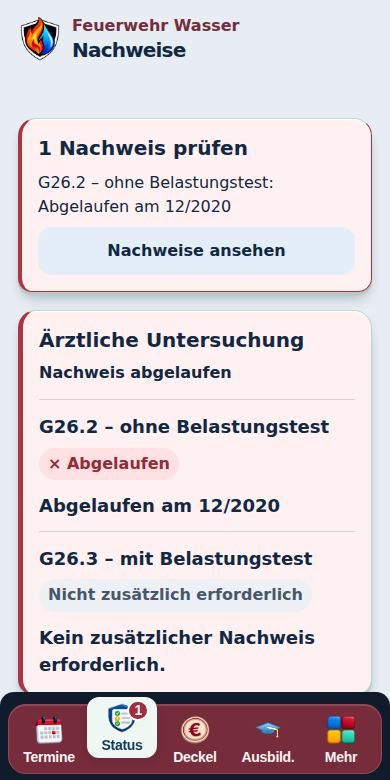
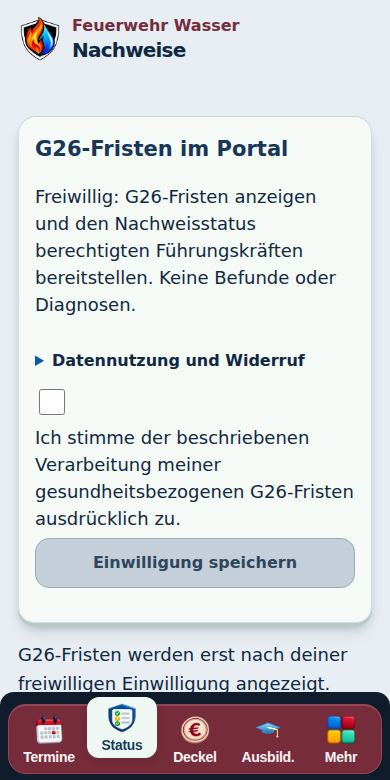
Show Heute and Morgen in widgets and clarify member-entered evidence

Changed region(s): [[0.0308, 0.1538, 0.9538, 0.9231], [0.9231, 0.8615, 0.9538, 0.8923]]

diff --git a/privacy.html b/privacy.html
@@ -1,7 +1,7 @@
 <!doctype html>
 <html lang="de"><head><meta charset="utf-8"><meta name="viewport" content="width=device-width,initial-scale=1"><meta name="referrer" content="no-referrer"><meta http-equiv="Content-Security-Policy" content="default-src 'none'; style-src 'self'; img-src 'self'; base-uri 'none'; form-action 'none'; object-src 'none'"><title>Datenschutz · H₂O Portal</title><link rel="stylesheet" href="css/install.css"></head><body><main><header><img src="assets/drinks/h2o-symbol-blue-192.png" width="64" height="64" alt=""><div><p>Feuerwehr Wasser</p><h1>Datenschutz · H₂O Portal</h1></div></header><p class="lead">Stand: 1. November 2026</p><section><h2>Verantwortlicher und Kontakt</h2><p>Markus Bürklin · Hirtenweg 1 · 79312 Emmendingen · Deutschland</p><p>E-Mail: m.b.1982@web.de</p><p>Das H₂O Portal wird eigenständig betrieben. Der Betreiber entscheidet über die Verarbeitung im Portal und verwendet dabei auch Informationen der Feuerwehrverwaltung. Seine persönliche Feuerwehrmitgliedschaft bestimmt nicht die datenschutzrechtliche Verantwortung.</p></section>
-<section><h2>Wofür welche Daten verwendet werden</h2><p>Das Portal bietet freigegebenen Personen Termine, Rückmeldungen, persönliche Nachweisfristen, ein Getränkekonto, Kontakte und Ausbildungsunterlagen. Es verarbeitet dafür Namen und Mitgliedszuordnungen, Zugangskennungen, Terminantworten, freigegebene Nachweisfristen, Getränke und Bestellungen sowie Zahlungen und offene Beträge. Die Angaben stammen aus der Verwaltung und aus eigenen Eingaben der Nutzer.</p><p>Die Bereitstellung und der Schutz dieser gewünschten Organisations- und Kontofunktionen erfolgen auf Grundlage berechtigter Interessen nach Artikel 6 Absatz 1 Buchstabe f DSGVO: persönliche Zuordnung, verlässliche Dienstorganisation, richtige Abrechnung und Schutz vor unberechtigten Zugriffen. Du kannst aus Gründen deiner besonderen Situation widersprechen. Medizinisch bezogene G26-Angaben unterliegen der gesonderten Einwilligung im nächsten Abschnitt.</p><p>Für den persönlichen Zugang sind Name und Zuordnung sowie eine Anmeldekennung nötig. Ohne sie ist kein zugeordnetes Portal-Konto möglich. Die Portal-Kontolöschung beendet keine Feuerwehrmitgliedschaft.</p></section>
-<section><h2>Freiwillige G26-Einwilligung</h2><p>Für die zusätzliche Nutzung von G26.2-/G26.3-Gültigkeits- und Fälligkeitsangaben im persönlichen Portal wird eine eigene, nicht vorausgewählte Einwilligung eingeholt. Diese Angaben haben Gesundheitsbezug. Grundlage sind Artikel 6 Absatz 1 Buchstabe a und Artikel 9 Absatz 2 Buchstabe a DSGVO.</p><p>Die Einwilligung umfasst die Fristenanzeige und Erinnerungsfunktion sowie die Anzeige der freigegebenen G26-Fristen und des daraus abgeleiteten Status an berechtigte Verwaltungs- und Führungskräfte im Portal. Die Angaben stammen aus der Verwaltung oder aus eigenen Aktualisierungen. Ärztliche Befunde, Diagnosen und Atteste werden in diesem Ablauf nicht übernommen.</p><p>Ohne Zustimmung bleiben Termine, Getränkekonto und andere Portalbereiche nutzbar. Unter Meine Nachweise → G26-Fristen im Portal kannst du die Einwilligung für die Zukunft widerrufen. Danach gibt der Server G26-Werte weder für dein persönliches Portal noch für die GF-Übersicht frei. Bis dahin rechtmäßig erfolgte Verarbeitungen werden durch den Widerruf nicht rückwirkend geändert.</p><p>Die Zustimmung wird mit Textversion und Zeitpunkt verschlüsselt gespeichert. Sie betrifft die zusätzliche Portalnutzung. Eigenständig geführte Verwaltungsunterlagen haben einen eigenen Verarbeitungszweck und werden durch diesen Widerruf nicht gelöscht. Die Einwilligung ist keine nachträgliche Bestätigung für frühere Datenübernahmen.</p></section>
+<section><h2>Wofür welche Daten verwendet werden</h2><p>Das Portal bietet freigegebenen Personen Termine, Rückmeldungen, persönliche Nachweisfristen, ein Getränkekonto, Kontakte und Ausbildungsunterlagen. Es verarbeitet dafür Namen und Mitgliedszuordnungen, Zugangskennungen, Terminantworten, freigegebene Nachweisfristen, Getränke und Bestellungen sowie Zahlungen und offene Beträge. Mitglieder tragen ihre Nachweisfristen und Kontrolldaten selbst ein. Die Verwaltung prüft die Angaben und kann sie bestätigen oder korrigieren. Bereits vorhandene Verwaltungsangaben können zum Abgleich oder zur Ergänzung übernommen werden.</p><p>Die Bereitstellung und der Schutz dieser gewünschten Organisations- und Kontofunktionen erfolgen auf Grundlage berechtigter Interessen nach Artikel 6 Absatz 1 Buchstabe f DSGVO: persönliche Zuordnung, verlässliche Dienstorganisation, richtige Abrechnung und Schutz vor unberechtigten Zugriffen. Du kannst aus Gründen deiner besonderen Situation widersprechen. Medizinisch bezogene G26-Angaben unterliegen der gesonderten Einwilligung im nächsten Abschnitt.</p><p>Für den persönlichen Zugang sind Name und Zuordnung sowie eine Anmeldekennung nötig. Ohne sie ist kein zugeordnetes Portal-Konto möglich. Die Portal-Kontolöschung beendet keine Feuerwehrmitgliedschaft.</p></section>
+<section><h2>Freiwillige G26-Einwilligung</h2><p>Für die zusätzliche Nutzung von G26.2-/G26.3-Gültigkeits- und Fälligkeitsangaben im persönlichen Portal wird eine eigene, nicht vorausgewählte Einwilligung eingeholt. Diese Angaben haben Gesundheitsbezug. Grundlage sind Artikel 6 Absatz 1 Buchstabe a und Artikel 9 Absatz 2 Buchstabe a DSGVO.</p><p>Die Einwilligung umfasst die Fristenanzeige und Erinnerungsfunktion sowie die Anzeige der freigegebenen G26-Fristen und des daraus abgeleiteten Status an berechtigte Verwaltungs- und Führungskräfte im Portal. Du trägst die Angaben selbst ein; die Verwaltung prüft sie. Vorhandene Verwaltungsangaben können abgeglichen oder ergänzt werden. Ärztliche Befunde, Diagnosen und Atteste werden in diesem Ablauf nicht übernommen.</p><p>Ohne Zustimmung bleiben Termine, Getränkekonto und andere Portalbereiche nutzbar. Unter Meine Nachweise → G26-Fristen im Portal kannst du die Einwilligung für die Zukunft widerrufen. Danach gibt der Server G26-Werte weder für dein persönliches Portal noch für die GF-Übersicht frei. Bis dahin rechtmäßig erfolgte Verarbeitungen werden durch den Widerruf nicht rückwirkend geändert.</p><p>Die Zustimmung wird mit Textversion und Zeitpunkt verschlüsselt gespeichert. Sie betrifft die zusätzliche Portalnutzung. Eigenständig geführte Verwaltungsunterlagen haben einen eigenen Verarbeitungszweck und werden durch diesen Widerruf nicht gelöscht. Die Einwilligung ist keine nachträgliche Bestätigung für frühere Datenübernahmen.</p></section>
 <section><h2>Anmeldung und lokale Speicherung</h2><p>Bei Passkeys erhält der Portaldienst öffentliche Schlüssel und Kennungen. Private Passkey-Schlüssel und biometrische Merkmale verbleiben beim Authentifikator. Ein eingerichtetes Passwort wird serverseitig als Prüfwert gespeichert. Neue persönliche Einrichtungsfreigaben sind einmalig und 30 Minuten gültig.</p><p>Sitzungen und Einstellungen werden auf deinem Gerät gespeichert. Das native iPhone-Widget enthält nur den nächsten freigegebenen Termin mit Zeit, Ort, Kleidung und Rückmeldestatus, höchstens zwölf Stunden. Namen und Zugangstoken werden nicht an das Widget übergeben. Bei Abmeldung oder erkanntem Zugriffsverlust wird der Widget-Stand geleert.</p><p>Die Apple-Prüfdemo arbeitet mit erfundenen Daten in einem getrennten, nicht dauerhaften WebKit-Speicher. Ihre Änderungen betreffen keine echten Mitgliederdaten. Öffentliche Ausbildungsdateien können aus dem bestehenden Webangebot geladen werden.</p></section>
 <section><h2>Dienste und Empfänger</h2><p>GitHub Pages liefert die öffentlichen Programmdateien. Cloudflare betreibt den geschützten Portaldienst und die Datenbank. Microsoft OneDrive/SharePoint dient der getrennten Verwaltung gemeinsamer Dateien und Berichte. Google liefert die eingerichteten Kalendertermine. Berechtigte Verwaltungs- und Führungskräfte erhalten nur die für ihre Funktionen freigegebenen Informationen.</p><p>Push-Mitteilungen sind freiwillig. Dafür werden eine Gerätekennung und der Freigabestatus verarbeitet; auf dem Sperrbildschirm steht ein allgemeiner Hinweis. Ein Kalenderabo verwendet einen persönlichen, zurücksetzbaren Nur-Lese-Link. Beim Kalenderabruf werden die für dich freigegebenen Termine an deinen Kalenderdienst übertragen. Kalender und Mitteilungen lassen sich unter Konto &amp; Sicherheit verwalten.</p><p>PayPal wird erst beim Öffnen des Zahlungslinks aufgerufen. OpenLigaDB liefert Daten bei Nutzung des Fußballbereichs. Beim Öffnen externer Unterlagen erhält der jeweilige Anbieter die für den Abruf nötigen Verbindungsdaten. Technische Verbindungsdaten können auch bei den Hostinganbietern anfallen.</p><p>Die App enthält keine eigenen Werbe- oder Analyse-SDKs. Eine Nutzung zum Werbetracking ist nicht eingerichtet. Die genutzten internationalen Dienste können Daten außerhalb der EU bzw. des EWR verarbeiten, insbesondere in den USA; eine ausschließlich deutsche Speicherung wird nicht zugesagt. Angaben der Anbieter zu Datenstandorten, Angemessenheitsbeschlüssen und vertraglichen Schutzmechanismen stehen unter den folgenden Links.</p><ul><li><a href="https://docs.github.com/en/site-policy/privacy-policies/github-general-privacy-statement" rel="noopener noreferrer">GitHub – Datenschutz</a></li><li><a href="https://www.cloudflare.com/privacypolicy/" rel="noopener noreferrer">Cloudflare – Datenschutz</a></li><li><a href="https://www.cloudflare.com/cloudflare-customer-dpa/" rel="noopener noreferrer">Cloudflare – Datenverarbeitungsbedingungen und Standardvertragsklauseln</a></li><li><a href="https://privacy.microsoft.com/de-de/privacystatement" rel="noopener noreferrer">Microsoft – Datenschutz</a></li><li><a href="https://policies.google.com/privacy?hl=de" rel="noopener noreferrer">Google – Datenschutz</a></li><li><a href="https://www.apple.com/legal/privacy/de-ww/" rel="noopener noreferrer">Apple – Datenschutz</a></li><li><a href="https://www.paypal.com/de/legalhub/paypal/privacy-full" rel="noopener noreferrer">PayPal – Datenschutz</a></li><li><a href="https://www.openligadb.de/" rel="noopener noreferrer">OpenLigaDB</a></li></ul></section>
 <section><h2>Aufbewahrung und Kontolöschung</h2><p>Unter Konto &amp; Sicherheit → Konto → Portal-Konto löschen entfernst du nach erneuter Anmeldung deine Portalzugänge, Sitzungen, Push-Verbindungen, Kalenderabo-Links, Portal-Rückmeldungen und die hinterlegte Portal-Einwilligung. Alte Zugänge werden ungültig. Für einen späteren Zugang ist eine neue Freigabe erforderlich.</p><p>Unabhängig verwaltete Feuerwehrunterlagen und Nachweise bleiben während der Mitgliedschaft erhalten. Bei deren Beendigung veranlasst die Verwaltung die Löschung. Das getrennt geführte Getränkekonto und Bestellungen werden durch die Portal-Kontolöschung nicht entfernt; offene Abrechnungen und sonstige Löschwünsche klärt der Betreiber mit der Verwaltung. Es wird keine pauschale gesetzliche Aufbewahrungsfrist für sämtliche Daten behauptet.</p><p>Portal-Sitzungen und persönliche Links bestehen bis zu ihrem Ablauf, ihrer Sperrung oder Löschung. Für Terminantworten sieht der Dienst eine Bereinigung nach 400 Tagen vor. Der persönliche Kalender-Abrufstatus enthält nur den letzten erfolgreichen Abruf und keinen Nutzungsverlauf. Kopien in Kalender-Apps und Passkeys im Passwortmanager können dort selbst entfernt werden.</p></section>

diff --git a/cloudflare/push/worker.bundle.js b/cloudflare/push/worker.bundle.js
@@ -21598,7 +21598,7 @@ g.RegulationsModel={source,defaults,validate,pdfUrl,bundledPdf,bundledParts};
 })(globalThis);
 
 /* Versioned, specific consent wording shared by the member UI and the service. */
-(function(g){'use strict';const model={version:'g26-portal-2026-11-01-v1',title:'G26-Fristen im Portal',controller:'Markus Bürklin, Hirtenweg 1, 79312 Emmendingen · m.b.1982@web.de',text:'Ich willige ausdrücklich ein, dass Markus Bürklin meine G26.2-/G26.3-Gültigkeits- und Fälligkeitsangaben aus der Feuerwehrverwaltung sowie meine eigenen Aktualisierungen für die Fristenanzeige und Erinnerungen im H₂O Portal verarbeitet. Diese Angaben haben Gesundheitsbezug. Berechtigte Verwaltungs- und Führungskräfte können die freigegebenen G26-Fristen und den daraus abgeleiteten Nachweisstatus im Portal sehen. Der geschützte Portaldienst und seine Datenbank werden bei Cloudflare betrieben. Ärztliche Befunde, Diagnosen und Atteste werden hierfür nicht übernommen.',notice:'Die Einwilligung ist freiwillig. Ohne Zustimmung bleiben Termine, Getränkekonto und die übrigen Portalbereiche nutzbar. Du kannst sie hier jederzeit für die Zukunft widerrufen. Dann werden G26-Angaben im persönlichen Portal und in der GF-Übersicht nicht mehr freigegeben. Unabhängig geführte Verwaltungsunterlagen werden dadurch nicht gelöscht.',label:'Ich stimme der beschriebenen Verarbeitung meiner gesundheitsbezogenen G26-Fristen ausdrücklich zu.'};g.G26Consent=Object.freeze(model);if(typeof module!=='undefined'&&module.exports)module.exports=model;})(globalThis);
+(function(g){'use strict';const model={version:'g26-portal-2026-11-01-v1',title:'G26-Fristen im Portal',controller:'Markus Bürklin, Hirtenweg 1, 79312 Emmendingen · m.b.1982@web.de',text:'Ich willige ausdrücklich ein, dass Markus Bürklin meine selbst eingetragenen G26.2-/G26.3-Gültigkeits- und Fälligkeitsangaben sowie mit der Verwaltung abgeglichene Angaben für die Fristenanzeige und Erinnerungen im H₂O Portal verarbeitet. Die Verwaltung prüft die Angaben und kann sie bestätigen oder korrigieren. Diese Angaben haben Gesundheitsbezug. Berechtigte Verwaltungs- und Führungskräfte können die freigegebenen G26-Fristen und den daraus abgeleiteten Nachweisstatus im Portal sehen. Der geschützte Portaldienst und seine Datenbank werden bei Cloudflare betrieben. Ärztliche Befunde, Diagnosen und Atteste werden hierfür nicht übernommen.',notice:'Die Einwilligung ist freiwillig. Ohne Zustimmung bleiben Termine, Getränkekonto und die übrigen Portalbereiche nutzbar. Du kannst sie hier jederzeit für die Zukunft widerrufen. Dann werden G26-Angaben im persönlichen Portal und in der GF-Übersicht nicht mehr freigegeben. Unabhängig geführte Verwaltungsunterlagen werden dadurch nicht gelöscht.',label:'Ich stimme der beschriebenen Verarbeitung meiner gesundheitsbezogenen G26-Fristen ausdrücklich zu.'};g.G26Consent=Object.freeze(model);if(typeof module!=='undefined'&&module.exports)module.exports=model;})(globalThis);
 
 /* Member evidence overlay and encrypted audit trail. Server-owned eligibility and dates. */
 (function(g){
@@ -22877,7 +22877,7 @@ export default {
   const path=new URL(request.url).pathname;
   try{
    if(!env.DB||!env.ADMIN_TOKEN||env.ADMIN_TOKEN.length<40||!env.INVITE_SECRET||env.INVITE_SECRET.length<40||!env.VAPID_PRIVATE_JWK||!env.VAPID_PUBLIC_KEY)return reply({error:'Versanddienst noch nicht eingerichtet.'},503);
[2 lines of base64/hex data omitted]
    const personalFeed=/^\/calendar\/member\/([A-Za-z0-9_-]{43})\.ics$/.exec(path);
    if(personalFeed&&['GET','HEAD'].includes(request.method)){
     const privateHeaders={'Content-Type':'text/calendar; charset=utf-8','Content-Disposition':'inline; filename="H2O-Meine-Feuerwehrtermine.ics"','Cache-Control':'private, no-store','X-Content-Type-Options':'nosniff','Referrer-Policy':'no-referrer','X-Robots-Tag':'noindex, nofollow, noarchive'};

diff --git a/js/features/portal/g26-consent.js b/js/features/portal/g26-consent.js
@@ -1,2 +1,2 @@
 /* Versioned, specific consent wording shared by the member UI and the service. */
-(function(g){'use strict';const model={version:'g26-portal-2026-11-01-v1',title:'G26-Fristen im Portal',controller:'Markus Bürklin, Hirtenweg 1, 79312 Emmendingen · m.b.1982@web.de',text:'Ich willige ausdrücklich ein, dass Markus Bürklin meine G26.2-/G26.3-Gültigkeits- und Fälligkeitsangaben aus der Feuerwehrverwaltung sowie meine eigenen Aktualisierungen für die Fristenanzeige und Erinnerungen im H₂O Portal verarbeitet. Diese Angaben haben Gesundheitsbezug. Berechtigte Verwaltungs- und Führungskräfte können die freigegebenen G26-Fristen und den daraus abgeleiteten Nachweisstatus im Portal sehen. Der geschützte Portaldienst und seine Datenbank werden bei Cloudflare betrieben. Ärztliche Befunde, Diagnosen und Atteste werden hierfür nicht übernommen.',notice:'Die Einwilligung ist freiwillig. Ohne Zustimmung bleiben Termine, Getränkekonto und die übrigen Portalbereiche nutzbar. Du kannst sie hier jederzeit für die Zukunft widerrufen. Dann werden G26-Angaben im persönlichen Portal und in der GF-Übersicht nicht mehr freigegeben. Unabhängig geführte Verwaltungsunterlagen werden dadurch nicht gelöscht.',label:'Ich stimme der beschriebenen Verarbeitung meiner gesundheitsbezogenen G26-Fristen ausdrücklich zu.'};g.G26Consent=Object.freeze(model);if(typeof module!=='undefined'&&module.exports)module.exports=model;})(globalThis);
+(function(g){'use strict';const model={version:'g26-portal-2026-11-01-v1',title:'G26-Fristen im Portal',controller:'Markus Bürklin, Hirtenweg 1, 79312 Emmendingen · m.b.1982@web.de',text:'Ich willige ausdrücklich ein, dass Markus Bürklin meine selbst eingetragenen G26.2-/G26.3-Gültigkeits- und Fälligkeitsangaben sowie mit der Verwaltung abgeglichene Angaben für die Fristenanzeige und Erinnerungen im H₂O Portal verarbeitet. Die Verwaltung prüft die Angaben und kann sie bestätigen oder korrigieren. Diese Angaben haben Gesundheitsbezug. Berechtigte Verwaltungs- und Führungskräfte können die freigegebenen G26-Fristen und den daraus abgeleiteten Nachweisstatus im Portal sehen. Der geschützte Portaldienst und seine Datenbank werden bei Cloudflare betrieben. Ärztliche Befunde, Diagnosen und Atteste werden hierfür nicht übernommen.',notice:'Die Einwilligung ist freiwillig. Ohne Zustimmung bleiben Termine, Getränkekonto und die übrigen Portalbereiche nutzbar. Du kannst sie hier jederzeit für die Zukunft widerrufen. Dann werden G26-Angaben im persönlichen Portal und in der GF-Übersicht nicht mehr freigegeben. Unabhängig geführte Verwaltungsunterlagen werden dadurch nicht gelöscht.',label:'Ich stimme der beschriebenen Verarbeitung meiner gesundheitsbezogenen G26-Fristen ausdrücklich zu.'};g.G26Consent=Object.freeze(model);if(typeof module!=='undefined'&&module.exports)module.exports=model;})(globalThis);

diff --git a/native/ios/Shared/WidgetSnapshot.swift b/native/ios/Shared/WidgetSnapshot.swift
@@ -1,5 +1,23 @@
 import Foundation
 
+enum H2OWidgetDateLabel {
+    static var calendar: Calendar {
+        var calendar = Calendar(identifier: .gregorian)
+        calendar.timeZone = TimeZone(identifier: "Europe/Berlin")!
+        return calendar
+    }
+
+    static func relativeDay(for date: Date, comparedTo reference: Date) -> String? {
+        let calendar = calendar
+        let days = calendar.dateComponents([.day], from: calendar.startOfDay(for: reference), to: calendar.startOfDay(for: date)).day
+        switch days {
+        case 0: return "Heute"
+        case 1: return "Morgen"
+        default: return nil
+        }
+    }
+}
+
 // Shared between the signed-in iOS app and its WidgetKit extension.
 // Never store capability tokens, passkeys, member IDs, or calendar URLs here.
 enum H2OWidgetStorage {
@@ -17,12 +35,19 @@ enum H2OWidgetStorage {
         let active = snapshot.event.map { $0.end > now } ?? false
         let current = active ? snapshot : H2OWidgetSnapshot(updatedAt: snapshot.updatedAt, event: nil, stale: snapshot.stale)
         var states = [H2OWidgetState(date: now, snapshot: current)]
+        // Relative day labels change at local midnight, even without reopening the app.
+        let calendar = H2OWidgetDateLabel.calendar
+        if let event = snapshot.event, active,
+           let midnight = calendar.date(byAdding: .day, value: 1, to: calendar.startOfDay(for: now)),
+           midnight < expiry, midnight < event.end {
+            states.append(H2OWidgetState(date: midnight, snapshot: current))
+        }
         if let event = snapshot.event, active, event.end < expiry {
             states.append(H2OWidgetState(date: event.end, snapshot: H2OWidgetSnapshot(updatedAt: snapshot.updatedAt, event: nil, stale: snapshot.stale)))
         }
         // Empty calendars must expire too: an old empty result is not a fresh check.
         states.append(H2OWidgetState(date: expiry, snapshot: nil))
-        return states
+        return states.sorted { $0.date < $1.date }
     }
 
     static func read(now: Date = Date()) -> H2OWidgetSnapshot? {

diff --git a/native/widget-tests/WidgetPolicyTests.swift b/native/widget-tests/WidgetPolicyTests.swift
@@ -2,6 +2,33 @@ import XCTest
 @testable import WidgetPolicy
 
 final class WidgetPolicyTests: XCTestCase {
+    func date(_ value: String) -> Date { ISO8601DateFormatter().date(from: value)! }
+
+    func testRelativeDaysUseBerlinCalendarIncludingClockChanges() {
+        for (reference, tomorrow) in [
+            ("2026-03-28T23:30:00Z", "2026-03-29T22:30:00Z"),
+            ("2026-10-24T22:30:00Z", "2026-10-25T23:30:00Z")
+        ] {
+            XCTAssertEqual(H2OWidgetDateLabel.relativeDay(for: date(reference), comparedTo: date(reference)), "Heute")
+            XCTAssertEqual(H2OWidgetDateLabel.relativeDay(for: date(tomorrow), comparedTo: date(reference)), "Morgen")
+            XCTAssertNil(H2OWidgetDateLabel.relativeDay(for: date(reference), comparedTo: date(tomorrow)))
+        }
+        XCTAssertNil(H2OWidgetDateLabel.relativeDay(for: date("2026-11-03T18:00:00Z"), comparedTo: date("2026-11-01T12:00:00Z")))
+    }
+
+    func testMidnightRefreshChangesTomorrowToTodayWithoutExtendingCache() {
+        let now = date("2026-11-01T21:00:00Z")
+        let start = date("2026-11-02T06:00:00Z")
+        let event = H2OWidgetEvent(title: "Probe", start: start, end: start.addingTimeInterval(3600), location: "Test", clothing: "Test", status: "yes", allDay: false)
+        let snapshot = H2OWidgetSnapshot(updatedAt: now, event: event, stale: false)
+        let states = H2OWidgetStorage.timeline(snapshot: snapshot, now: now)
+        XCTAssertEqual(states.map(\.date), [now, date("2026-11-01T23:00:00Z"), event.end, now.addingTimeInterval(43200)])
+        XCTAssertEqual(H2OWidgetDateLabel.relativeDay(for: start, comparedTo: states[0].date), "Morgen")
+        XCTAssertEqual(H2OWidgetDateLabel.relativeDay(for: start, comparedTo: states[1].date), "Heute")
+        XCTAssertNil(states[2].snapshot?.event)
+        XCTAssertNil(states[3].snapshot)
+    }
+
     let now = Date(timeIntervalSince1970: 1_800_000_000)
     func snapshot(end: TimeInterval? = nil) -> H2OWidgetSnapshot {
         H2OWidgetSnapshot(updatedAt: now, event: end.map {

diff --git a/native/ios/H2OPortal/PortalWebView.swift b/native/ios/H2OPortal/PortalWebView.swift
@@ -59,6 +59,7 @@ struct PortalWebView: UIViewRepresentable {
         func webView(_ webView: WKWebView, decidePolicyFor action: WKNavigationAction, decisionHandler: @escaping (WKNavigationActionPolicy) -> Void) {
             guard action.targetFrame?.isMainFrame != false else { decisionHandler(.allow); return }
             guard let url = action.request.url else { decisionHandler(.cancel); return }
+            if model.review && PortalLinks.isPublicPrivacy(url) { UIApplication.shared.open(url); decisionHandler(.cancel); return }
             if model.review && !PortalLinks.isReview(url) {
                 model.message = "Prüfdemo: Externe Aufrufe, Zahlungen und Kalenderinstallationen sind gesperrt."
                 decisionHandler(.cancel); return
@@ -79,6 +80,7 @@ struct PortalWebView: UIViewRepresentable {
         }
         func webView(_ webView: WKWebView, createWebViewWith configuration: WKWebViewConfiguration, for action: WKNavigationAction, windowFeatures: WKWindowFeatures) -> WKWebView? {
             if action.targetFrame == nil, let url = action.request.url {
+                if model.review && PortalLinks.isPublicPrivacy(url) { UIApplication.shared.open(url); return nil }
                 if model.review { model.message = "Prüfdemo: Externe Aufrufe sind gesperrt."; return nil }
                 if PortalLinks.trusted(url) { model.open(url) }
                 else if ["https", "mailto", "tel"].contains(url.scheme ?? "") { UIApplication.shared.open(url) }

diff --git a/native/ios/H2OPortalTests/WidgetLayoutTests.swift b/native/ios/H2OPortalTests/WidgetLayoutTests.swift
@@ -10,6 +10,8 @@ final class WidgetLayoutTests: XCTestCase {
         let now = ISO8601DateFormatter().date(from: "2026-10-31T12:00:00Z")!
         let start = ISO8601DateFormatter().date(from: "2026-11-02T18:30:00Z")!
         let cases: [(String, H2OWidgetEvent?, Bool)] = [
+            ("today", H2OWidgetEvent(title: "Probe", start: now.addingTimeInterval(3600), end: now.addingTimeInterval(10800), location: "GH Wasser", clothing: "Einsatzkleidung", status: "yes", allDay: false), false),
+            ("tomorrow", H2OWidgetEvent(title: "Probe", start: now.addingTimeInterval(86400), end: now.addingTimeInterval(93600), location: "GH Wasser", clothing: "Einsatzkleidung", status: "open", allDay: false), false),
             ("probe", H2OWidgetEvent(title: "Probe", start: start, end: start.addingTimeInterval(7200), location: "GH Wasser", clothing: "Einsatzkleidung", status: "yes", allDay: false), false),
             ("long-title", H2OWidgetEvent(title: "Sonderprobe · Technische Hilfeleistung am Gerätehaus", start: start, end: start.addingTimeInterval(7200), location: "Gerätehaus Wasser (Test)", clothing: "Einsatzkleidung", status: "excused", allDay: false), false),
             ("all-day-stale", H2OWidgetEvent(title: "Kameradschaftsabend", start: start, end: start.addingTimeInterval(86400), location: "Drei Könige Emmendingen", clothing: "Tagesdienst", status: "maybe", allDay: true), true),

diff --git a/native/ios/Shared/H2OWidgetView.swift b/native/ios/Shared/H2OWidgetView.swift
@@ -142,7 +142,12 @@ struct NextEventView: View {
                 .font(.system(size: 11 * scale, weight: .medium))
                 .foregroundStyle(ink.opacity(0.72))
                 .lineLimit(1)
-            if small {
+            if let relative = H2OWidgetDateLabel.relativeDay(for: date, comparedTo: entry.date) {
+                Text(relative)
+                    .font(.system(size: (small ? 34 : 25) * scale, weight: .bold))
+                    .lineLimit(1)
+                    .minimumScaleFactor(0.75)
+            } else if small {
                 HStack(alignment: .firstTextBaseline, spacing: 6 * scale) {
                     Text(datePart(date, "dd"))
                         .font(.system(size: 46 * scale, weight: .bold))

diff --git a/native/ios/H2OPortalTests/PortalLinksTests.swift b/native/ios/H2OPortalTests/PortalLinksTests.swift
@@ -5,6 +5,13 @@ import XCTest
 @testable import H2OPortal
 #endif
 final class PortalLinksTests: XCTestCase {
+    func testPublicPrivacyCanOpenExternallyWithoutReceivingMemberTokens() {
+        XCTAssertTrue(PortalLinks.isPublicPrivacy(PortalLinks.privacy))
+        XCTAssertFalse(PortalLinks.trusted(PortalLinks.privacy))
+        for suffix in ["?token=secret", "#setup=secret", "/"] {
+            XCTAssertFalse(PortalLinks.isPublicPrivacy(URL(string: PortalLinks.privacy.absoluteString + suffix)!))
+        }
+    }
     func testReviewEntryIsExactAndNeverCarriesMemberTokens() {
         XCTAssertTrue(PortalLinks.isReview(PortalLinks.review))
         XCTAssertTrue(PortalLinks.trusted(PortalLinks.review))

diff --git a/native/ios/H2OPortal/PortalLinks.swift b/native/ios/H2OPortal/PortalLinks.swift
@@ -10,6 +10,8 @@ enum PortalLinks {
     static let home = URL(string: "https://ffw-wasser.github.io/home/deckel.html")!
     static let host = "ffw-wasser.github.io"
     #endif
+    static let privacy = URL(string: "https://ffw-wasser.github.io/home/privacy.html")!
+    static func isPublicPrivacy(_ url: URL) -> Bool { url.absoluteString == privacy.absoluteString }
     static let review = URL(string: "https://ffw-wasser.github.io/home/review.html")!
     static func isReview(_ url: URL) -> Bool { url.absoluteString == review.absoluteString }
 

diff --git a/docs/H2O-MEMBER-PILOT.md b/docs/H2O-MEMBER-PILOT.md
@@ -133,3 +133,7 @@ Prüfungen: `tests/review-portal.test.cjs`, `tests/review-portal-browser.cjs`, S
 Unter Meine Nachweise steht eine eigene, nicht vorausgewählte Checkbox mit Zweck, Gesundheitsbezug, Datenquelle, berechtigten Empfängern, Betreiberkontakt und Widerrufshinweis. Erst das Häkchen und „Einwilligung speichern“ geben die Fristen zusätzlich im Portal frei. „G26-Einwilligung widerrufen“ sperrt die Freigabe wieder. Die GF-Übersicht kennzeichnet fehlende Einwilligungen neutral; sie erklärt die Person nicht für ungeeignet. Die medizinische Fristenanzeige und Eingabe werden serverseitig geschützt. Primäre Verwaltungsunterlagen werden nicht gelöscht. Konto-Löschung und Mitgliedsentfernung verwerfen die Portal-Einwilligung; ein Wechsel der Datenquelle macht sie ungültig.
 
 Die öffentliche Datenschutzseite ist `privacy.html`, mit Betreiberanschrift, Datenquellen, G26-Einwilligung, Diensten, Aufbewahrung und Rechten. Technische Prüfungen sind kein Nachweis einer rückwirkenden Rechtsgrundlage früherer Verwaltungsdatenübernahmen.
+
+## Relative Termintage – Build 1021
+
+Im kleinen und mittleren Widget ersetzt „Heute“ bzw. „Morgen“ den numerischen Tag und Monat. Für spätere Termine bleibt das Datum sichtbar. Maßgeblich ist der Kalendertag in Europe/Berlin, auch bei Zeitumstellungen. Ein geplanter Timeline-Eintrag um Mitternacht aktualisiert die Beschriftung; Terminende und die bestehende Ablaufgrenze von zwölf Stunden gelten weiterhin. Die Simulatorbilder enthalten zusätzliche Fälle für heute und morgen in allen unterstützten Größen.

diff --git a/native/store/DATENSCHUTZ-ENTWURF.de.md b/native/store/DATENSCHUTZ-ENTWURF.de.md
@@ -1,6 +1,6 @@
 # Datenschutz – Quellen und Umsetzungsstand
 
-Die öffentliche Fassung wird aus `PRIVACY.de.json` mit `node scripts/build-privacy-page.cjs` nach `privacy.html` erzeugt. Bestätigter Betreiber: Markus Bürklin, Hirtenweg 1, 79312 Emmendingen, m.b.1982@web.de. Angaben kommen aus der Verwaltung und aus eigenen Eingaben.
+Die öffentliche Fassung wird aus `PRIVACY.de.json` mit `node scripts/build-privacy-page.cjs` nach `privacy.html` erzeugt. Bestätigter Betreiber: Markus Bürklin, Hirtenweg 1, 79312 Emmendingen, m.b.1982@web.de. Mitglieder tragen Nachweisfristen und Kontrolldaten selbst ein; die Verwaltung prüft und bestätigt oder korrigiert sie. Vorhandene Verwaltungsangaben können abgeglichen oder ergänzt werden.
 
 G26.2-/G26.3-Gültigkeits- und Fälligkeitsangaben werden im persönlichen Portal und in der GF-Übersicht nur nach einer eigenen, nicht vorausgewählten Einwilligung freigegeben. Der Server speichert Textversion und Zeitpunkt verschlüsselt und prüft die persönliche Sitzung. Ein Widerruf sperrt diese zusätzliche Portalnutzung. Termine, Getränkekonto und die anderen Nachweise bleiben nutzbar. Befunde, Diagnosen und Atteste gehören nicht in diesen Ablauf.
 
